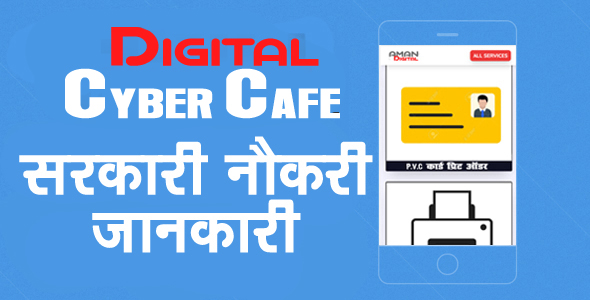
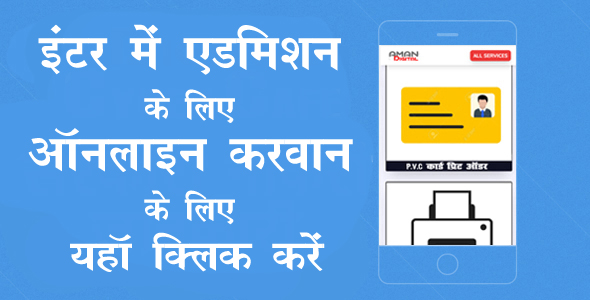
ok do

Changed region(s): [[0.0305, 0.06, 0.6407, 0.9]]

diff --git a/job1.html b/job1.html
@@ -9,7 +9,7 @@
   <meta property="og:description"
     content="पैन कार्ड, लगान रसीद, केवाला मोटेशन, रबर मोहर और अन्य सेवाओ के लिए ऑनलाइन ऑर्डर दें !" />
   <meta property="og:url" content="https://amitaryan1894.github.io/amanstudio" />
-  <meta property="og:image" content="https://amitaryan1894.github.io/amanstudio/img/og-image-kewala.jpg" />
+  <meta property="og:image" content="https://amitaryan1894.github.io/amanstudio/img/og-image-job1.jpg" />
   <link rel="icon" href="./img/icon512.png" type="image/png" sizes="16x16">
   <link rel="manifest" href="manifest.json">
   <link rel="shortcut icon" href="favicon.ico" type="image/x-icon">
@@ -17,7 +17,7 @@
   <meta name="twitter:title" content="अमन डिजिटल" />
   <meta name="twitter:description"
     content="पैन कार्ड, लगान रसीद, केवाला मोटेशन, रबर मोहर और अन्य सेवाओ के लिए ऑनलाइन ऑर्डर दें !" />
-  <meta name="twitter:image" content="https://amitaryan1894.github.io/amanstudio/img/og-image-job.jpg" />
+  <meta name="twitter:image" content="https://amitaryan1894.github.io/amanstudio/img/og-image-job1.jpg" />
   <link rel="icon" href="favicon.ico" type="image/x-icon">
   <link href='./css/style.css?v=2' rel='stylesheet' type='text/css'>
   <script type="text/javascript" src="./js/jquery.js"></script>
